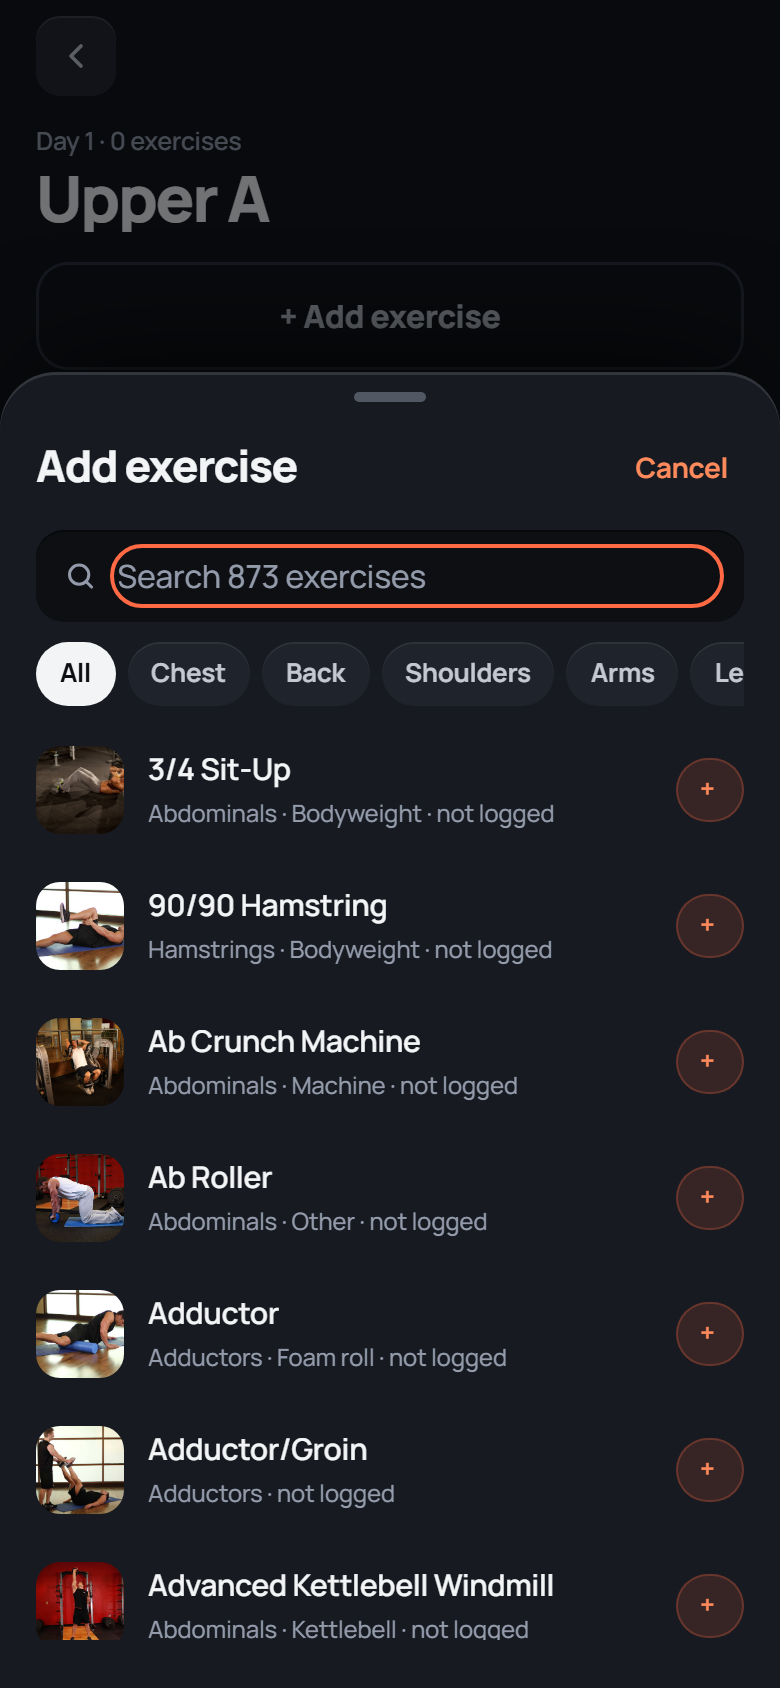
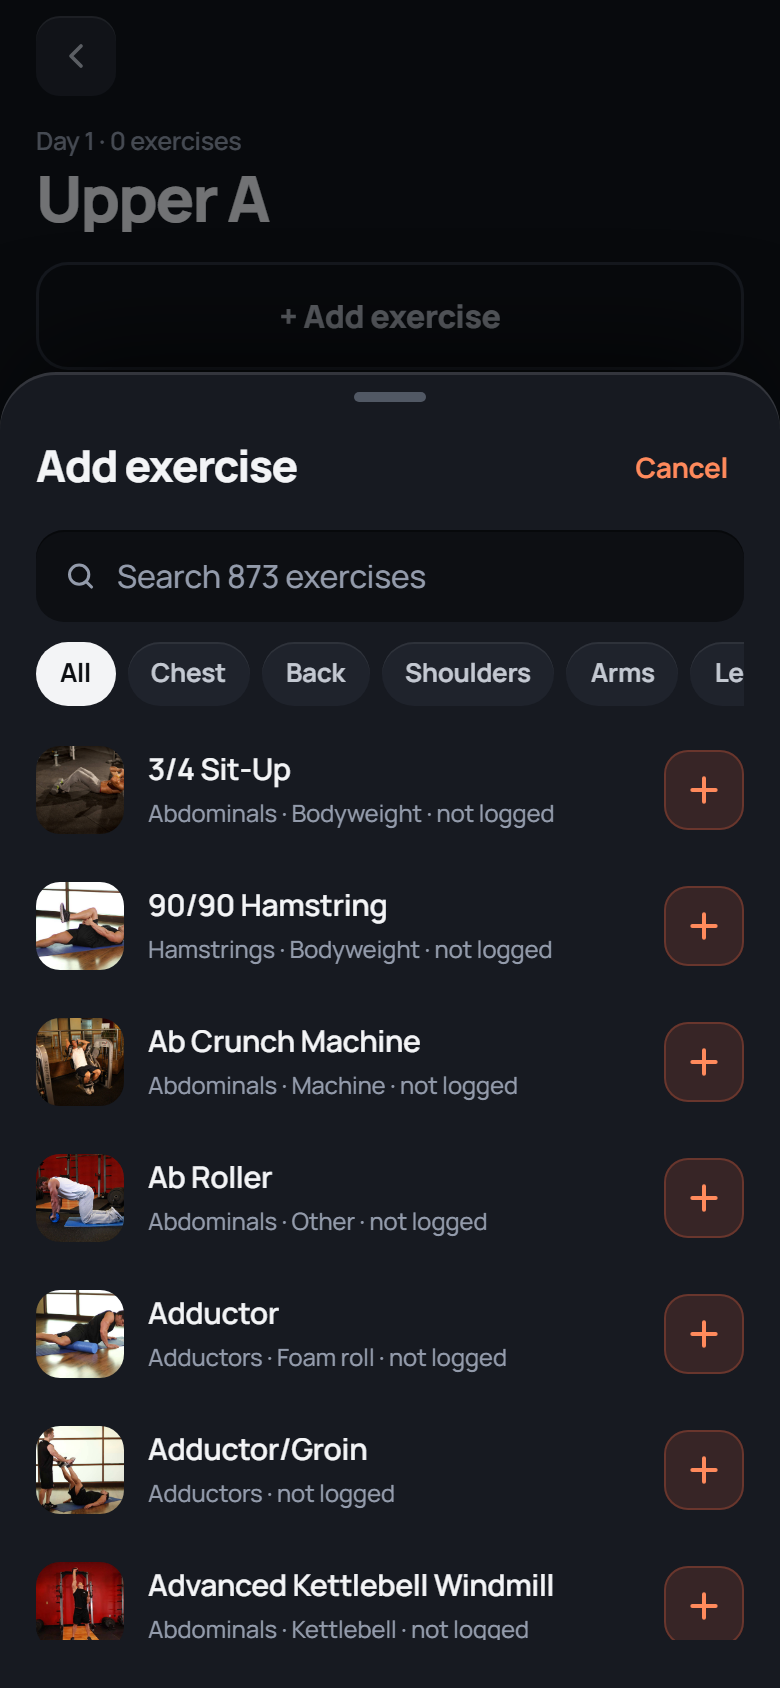
design(picker): the add control is a rounded square with a stroked plus
Noah: the plus did not look centred, and the buttons should be squarer, like the
logger's steppers. The text glyph is gone; the plus is a 20 px stroke inside a 40 px
os-icon-btn (radius 12) tinted with the accent, so it centres optically and matches the
weight steppers. Feature tests and the gesture check unchanged and green.

Claude-Session: https://claude.ai/code/session_01LYYGURozAMXE1rKL2itN6w

diff --git a/src/features/library/ExercisePicker.tsx b/src/features/library/ExercisePicker.tsx
@@ -140,11 +140,18 @@ export function ExercisePicker({ onPick, onClose }: Props) {
                         .join(' · ')}
                     </span>
                   </span>
-                  <span
-                    className="os-chip os-chip--acc grid size-[34px] place-items-center p-0 text-[18px]"
-                    aria-hidden
-                  >
-                    +
+                  <span className="os-icon-btn os-icon-btn--acc" aria-hidden>
+                    <svg
+                      width="20"
+                      height="20"
+                      viewBox="0 0 24 24"
+                      fill="none"
+                      stroke="currentColor"
+                      strokeWidth="2.4"
+                      strokeLinecap="round"
+                    >
+                      <path d="M12 5v14M5 12h14" />
+                    </svg>
                   </span>
                 </button>
               );

diff --git a/src/styles/editorial.css b/src/styles/editorial.css
@@ -1056,3 +1056,11 @@ html,
 body {
   background: var(--bg);
 }
+
+/* The add control on picker rows: a rounded square like the logger's steppers, the
+   plus drawn as a stroke so it centres optically, tinted with the accent. */
+[data-ds='editorial'] .os-icon-btn--acc {
+  background: var(--acc-soft);
+  color: var(--acc-tx);
+  box-shadow: inset 0 0 0 1px color-mix(in oklab, var(--acc) 25%, transparent);
+}
